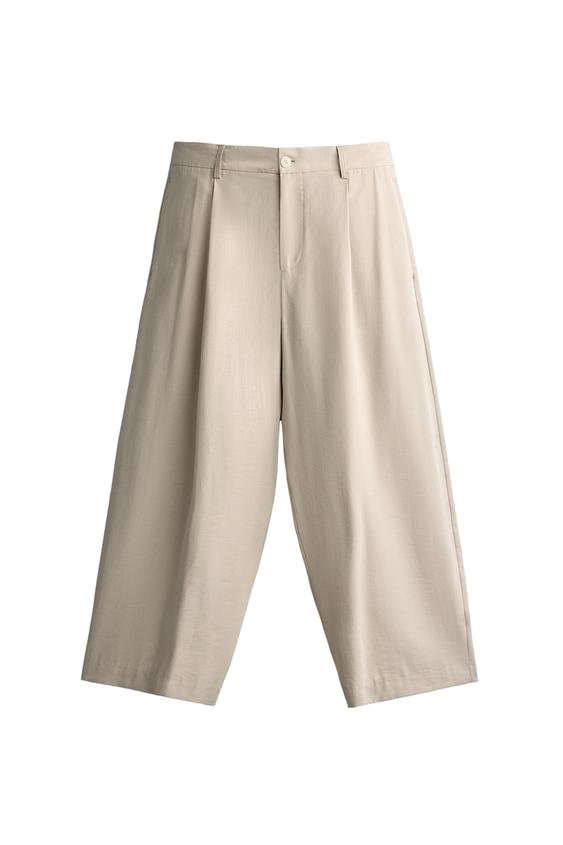
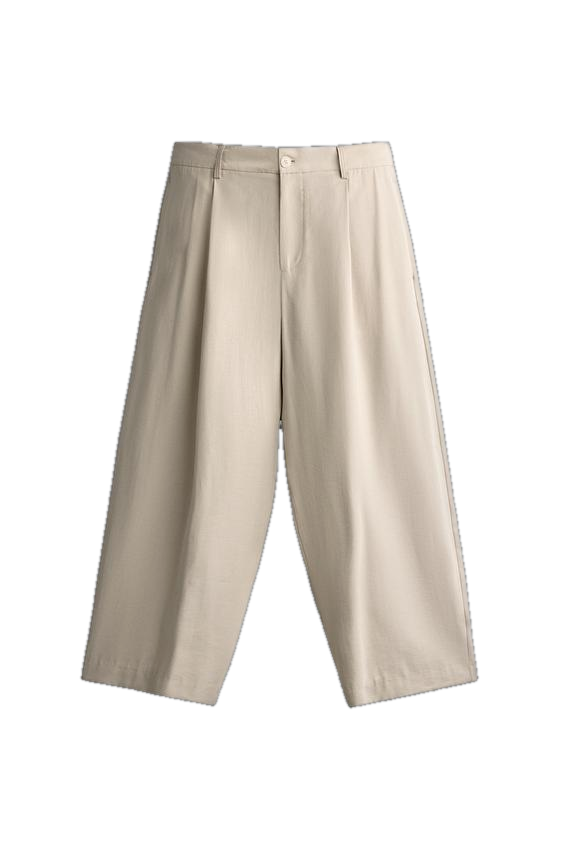
Add footer, cardigan outfit, product links, and focus-triggered stacks for mobile

diff --git a/app/page.tsx b/app/page.tsx
@@ -5,39 +5,65 @@ import Image from "next/image";
 import sharp from "sharp";
 import OutfitStack, { type OutfitItem } from "@/components/outfit-stack";
 
-const catalog: Record<string, { name: string; price: number; order: number }> =
-  {
-    "05755301707-f1.png": {
-      name: "Knitted sweater",
-      price: 79.99,
-      order: 1,
-    },
-    "06861740800-f1.png": {
-      name: "Black wide-leg trousers",
-      price: 49.99,
-      order: 2,
-    },
-    "12016821800-f1.png": {
-      name: "Black chukka boots",
-      price: 69.99,
-      order: 3,
-    },
-    "02521021700-f1.png": {
-      name: "Black leather jacket",
-      price: 199.99,
-      order: 1,
-    },
-    "01195331981-f1.png": {
-      name: "Light blue shirt",
-      price: 49.95,
-      order: 2,
-    },
-    "00706740710-f1.png": {
-      name: "Beige pleated trousers",
-      price: 35.95,
-      order: 3,
-    },
-  };
+const catalog: Record<
+  string,
+  { name: string; price: number; order: number; url?: string }
+> = {
+  "05755301707-f1.png": {
+    name: "Knitted sweater",
+    price: 79.99,
+    order: 1,
+  },
+  "06861740800-f1.png": {
+    name: "Black wide-leg trousers",
+    price: 49.99,
+    order: 2,
+  },
+  "12016821800-f1.png": {
+    name: "Black chukka boots",
+    price: 69.99,
+    order: 3,
+  },
+  "02521021700-f1.png": {
+    name: "Black leather jacket",
+    price: 199.99,
+    order: 1,
+  },
+  "01195331981-f1.png": {
+    name: "Light blue shirt",
+    price: 49.95,
+    order: 2,
+  },
+  "00706740710-f1.png": {
+    name: "Beige pleated trousers",
+    price: 35.95,
+    order: 3,
+  },
+  "04216305800-f1.png": {
+    name: "Black cardigan",
+    price: 49.95,
+    order: 1,
+    url: "https://www.zara.com/de/en/100-wool-regular-fit-cardigan-p04216305.html?v1=545446990",
+  },
+  "cleaned-tee.png": {
+    name: "White t-shirt",
+    price: 12.95,
+    order: 2,
+    url: "https://www.zara.com/de/en/basic-slim-fit-t-shirt--01-p05584401.html?v1=555528684",
+  },
+  "01195327700-f1.png": {
+    name: "Brown wide-leg trousers",
+    price: 39.95,
+    order: 3,
+    url: "https://www.zara.com/de/en/relaxed-fit-flowing-pleated-trousers-p01195327.html?v1=545447393",
+  },
+  "12649820800-f1.png": {
+    name: "Leather penny loafers",
+    price: 69.95,
+    order: 4,
+    url: "https://www.zara.com/de/en/leather-penny-loafers-p12649820.html?v1=584711251",
+  },
+};
 
 const publicDir = path.join(process.cwd(), "public", "catalog");
 
@@ -55,34 +81,6 @@ async function topMarginFraction(file: string) {
   return 0;
 }
 
-async function ensureTransparentPng(imagePath: string) {
-  const pngPath = imagePath.replace(/\.jpe?g$/i, ".png");
-  if (fs.existsSync(pngPath)) return;
-
-  const { data, info } = await sharp(imagePath)
-    .removeAlpha()
-    .raw()
-    .toBuffer({ resolveWithObject: true });
-  const { width, height, channels } = info;
-  const pixels = width * height;
-  const out = Buffer.alloc(pixels * 4);
-  for (let i = 0; i < pixels; i++) {
-    const r = data[i * channels];
-    const g = data[i * channels + 1];
-    const b = data[i * channels + 2];
-    const min = Math.min(r, g, b);
-    const alpha =
-      min >= 250 ? 0 : min <= 242 ? 255 : Math.round((255 * (250 - min)) / 8);
-    out[i * 4] = r;
-    out[i * 4 + 1] = g;
-    out[i * 4 + 2] = b;
-    out[i * 4 + 3] = alpha;
-  }
-  await sharp(out, { raw: { width, height, channels: 4 } })
-    .png()
-    .toFile(pngPath);
-}
-
 async function getOutfits() {
   const entries = fs
     .readdirSync(publicDir, { withFileTypes: true })
@@ -93,11 +91,6 @@ async function getOutfits() {
     entries.map(async (entry) => {
       const folder = entry.name;
       const dir = path.join(publicDir, folder);
-      for (const file of fs.readdirSync(dir)) {
-        if (/\.jpe?g$/i.test(file)) {
-          await ensureTransparentPng(path.join(dir, file));
-        }
-      }
       const files = fs
         .readdirSync(dir)
         .filter((file) => /\.png$/i.test(file))
@@ -110,6 +103,7 @@ async function getOutfits() {
         src: `/catalog/${folder}/${file}`,
         alt: catalog[file]?.name ?? file,
         price: catalog[file]?.price ?? 0,
+        url: catalog[file]?.url,
       }));
       const total = items.reduce((sum, item) => sum + item.price, 0);
       const topOffset = files.length
@@ -126,8 +120,9 @@ const outfits = await getOutfits();
 
 export default function Home() {
   return (
-    <main className="flex-1 overflow-x-clip px-8 pb-8 md:grid md:grid-cols-10 md:grid-rows-10 md:pt-16">
-      <header className="sticky top-0 z-20 -mx-8 flex items-center gap-2 bg-background px-8 py-4 md:static md:col-start-1 md:row-start-1 md:mx-0 md:self-start md:px-0 md:py-0">
+    <>
+      <main className="flex-1 overflow-x-clip px-8 pb-8 md:grid md:grid-cols-10 md:grid-rows-10 md:pt-16">
+      <header className="sticky top-0 z-20 -mx-8 flex items-center gap-2 px-8 py-4 md:static md:col-start-1 md:row-start-1 md:mx-0 md:self-start md:px-0 md:py-0">
         <h1 className="text-[16px] font-semibold tracking-tight">masallah</h1>
         <Image
           src="/nazar-boncugu.svg"
@@ -153,6 +148,28 @@ export default function Home() {
           </div>
         ))}
       </section>
-    </main>
+      </main>
+      <footer className="flex items-center gap-8 bg-black px-8 py-6 text-white">
+        <a
+          href="https://instagram.com"
+          target="_blank"
+          rel="noreferrer"
+          className="underline"
+        >
+          instagram
+        </a>
+        <a
+          href="https://tiktok.com"
+          target="_blank"
+          rel="noreferrer"
+          className="underline"
+        >
+          tiktok
+        </a>
+        <a href="#" className="underline">
+          contact
+        </a>
+      </footer>
+    </>
   );
 }

diff --git a/components/outfit-stack.tsx b/components/outfit-stack.tsx
@@ -4,22 +4,25 @@ export type OutfitItem = {
   src: string;
   alt: string;
   price: number;
+  url?: string;
 };
 
 const layout = [
   {
     position: "z-30 -rotate-2",
-    hover:
-      "group-hover:-translate-x-[35%] group-hover:-translate-y-6 group-hover:-rotate-12",
+    open: "group-open:-translate-x-[35%] group-open:-translate-y-6 group-open:-rotate-12",
   },
   {
     position: "z-20 rotate-3 translate-x-1 translate-y-5",
-    hover: "group-hover:translate-y-6 group-hover:rotate-6",
+    open: "group-open:translate-y-6 group-open:rotate-6",
   },
   {
     position: "z-10 rotate-8 translate-x-3 translate-y-10",
-    hover:
-      "group-hover:translate-x-[35%] group-hover:translate-y-6 group-hover:rotate-12",
+    open: "group-open:translate-x-[35%] group-open:translate-y-6 group-open:rotate-12",
+  },
+  {
+    position: "z-0 -rotate-12 -translate-x-6 translate-y-16",
+    open: "group-open:-translate-x-[45%] group-open:translate-y-10 group-open:-rotate-[16deg]",
   },
 ];
 
@@ -31,13 +34,13 @@ export default function OutfitStack({
   eager?: boolean;
 }) {
   return (
-    <div className="group relative aspect-[2/3] w-72 md:w-80">
+    <div tabIndex={0} className="group relative aspect-[2/3] w-72 md:w-80 focus:outline-none">
       {items.map((item, i) => {
         const slot = layout[Math.min(i, layout.length - 1)];
         return (
           <div
             key={item.src}
-            className={`absolute inset-0 transition-all duration-500 ease-out will-change-transform ${slot.position} ${slot.hover}`}
+            className={`absolute inset-0 transition-all duration-500 ease-out will-change-transform ${slot.position} ${slot.open}`}
           >
             <Image
               src={item.src}

diff --git a/app/globals.css b/app/globals.css
@@ -1,5 +1,7 @@
 @import "tailwindcss";
 
+@custom-variant group-open (&:is(:where(.group):is(:hover, :focus) *));
+
 :root {
   --background: #ffffff;
   --foreground: #000000;
